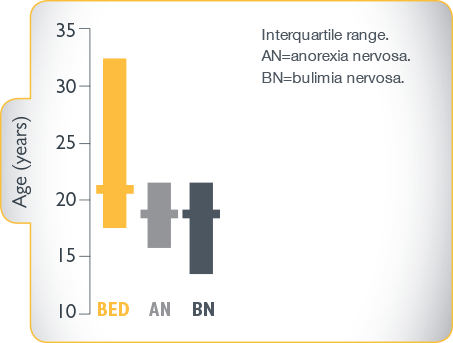
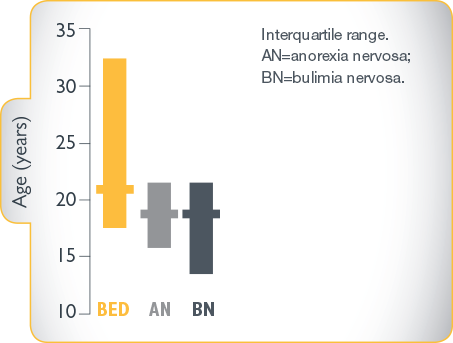
copy/style updates

diff --git a/frontend/dist/index.html b/frontend/dist/index.html
@@ -246,7 +246,7 @@
               </li>
             </ol>
             <p class="disclaimer"><em>Diagnosis should be based upon a <br class="hide--desktop">complete evaluation of the patient.
-                </em></p><a data-slideout="signup" class="button signup">Register to receive the full DSM-5<sup>&reg;</sup> diagnostic criteria and additional BED information from Shire.
+                </em></p><a data-slideout="signup" class="button signup">Register to receive the full <em>DSM-5</em><sup>&reg;</sup> diagnostic criteria and additional BED information from Shire
               
               </a>
             <div class="tab-container">
@@ -309,7 +309,7 @@
                 </h3>
                 <p class="chart hide--desktop"><img src="img/median-ages.png"></p>
                 <div class="median-ages hide--mobile"></div>
-                <p class="text footnote hide--desktop"><span class="yellow">Interquartile range.</span><br>
+                <p class="text footnote hide--desktop">Interquartile range.<br>
                   AN=anorexia nervosa;<br>
                   BN=bulimia nervosa.
                   
@@ -349,7 +349,7 @@
                 
               </p>
             </div>
-            <p class="footnote center chart-footnote">Data from an eating disorder–assessed subsample (n=2,980) of the National Comorbidity Survey Replication, a nationally representative face-to-face household survey of English-speaking adults <br class="hide--desktop"> aged ≥18 years.<sup>2</sup></p>
+            <p class="footnote center chart-footnote">*Data from an eating disorder–assessed subsample (n=2,980) of the National Comorbidity Survey Replication, a nationally representative face-to-face household survey of English-speaking adults <br class="hide--desktop"> aged ≥18 years.<sup>2</sup></p>
           </div>
         </div>
         <div data-section="effects" class="section section--effects"><a id="effects" name="effects" class="scroll-point"></a>

diff --git a/frontend/dist/css/styles.css b/frontend/dist/css/styles.css
@@ -345,8 +345,9 @@ ol.number > li:before {
 a {
   text-decoration: none;
 }
-a:hover {
-  text-decoration: underline;
+
+.content-wrap a:hover {
+  color: #ffcd6d;
 }
 
 @media only screen and (min-width: 40.063em) {
@@ -1331,6 +1332,9 @@ a.pdf-link span sup {
   -webkit-box-shadow: 1px 2px 2px rgba(33, 30, 31, 0.25);
   box-shadow: 1px 2px 2px rgba(33, 30, 31, 0.25);
 }
+.page-nav .slideout__inner .primary-nav .primary-nav__item a.active {
+  background-color: #ffcd6d;
+}
 
 .page-footer nav {
   float: left;
@@ -1993,6 +1997,16 @@ a.pdf-link span sup {
     width: 175px;
   }
 }
+.section--course .mean-duration {
+  /*
+  background-image: url("../img/prevalence-text-bg.png");
+  width: 740px;
+  height: 73px;
+  margin: 0 auto 0 auto;
+  padding: 16px 25px;
+  color: #51748b;
+  */
+}
 @media only screen and (max-width: 40em) {
   .section--course .mean-duration {
     padding-bottom: 40px;
@@ -2204,9 +2218,6 @@ a.pdf-link span sup {
   }
 }
 @media only screen and (min-width: 40.063em) {
-  .section--effects .associated {
-    padding-left: 45px;
-  }
   .section--effects .associated h3 {
     padding-bottom: 24px;
   }
@@ -2334,10 +2345,13 @@ a.pdf-link span sup {
   }
 }
 .section--effects .nineteen {
+  /*.large {
+      letter-spacing: -10px;
+      sup {
+          letter-spacing: normal;
+      }
+  }*/
   background-image: url("../img/spiral.png");
-}
-.section--effects .nineteen .large {
-  letter-spacing: -10px;
 }
 @media only screen and (max-width: 40em) {
   .section--effects .nineteen p {
@@ -2701,9 +2715,6 @@ a.pdf-link span sup {
   background: url("../img/diagnosis-nineteen.png") top left no-repeat;
   min-height: 250px;
   padding-bottom: 40px;
-}
-.section--diagnosis .nineteen-percent .large {
-  letter-spacing: -10px;
 }
 @media only screen and (min-width: 40.063em) {
   .section--diagnosis .nineteen-percent {

diff --git a/frontend/src/styles/pages/index/_effects.scss b/frontend/src/styles/pages/index/_effects.scss
@@ -72,7 +72,7 @@
         }
 
         @include mq("desktop") {
-            padding-left: 45px;
+            //padding-left: 45px;
             //padding-bottom: 30px;
             //float: left;
             h3 {
@@ -202,9 +202,12 @@
         }
     }
     .nineteen {
-        .large {
+        /*.large {
             letter-spacing: -10px;
-        }
+            sup {
+                letter-spacing: normal;
+            }
+        }*/
         background-image: url("#{$img-path}/spiral.png");
         @include mq("mobile") {
             p {

diff --git a/frontend/src/styles/pages/index/_course.scss b/frontend/src/styles/pages/index/_course.scss
@@ -183,6 +183,15 @@
         }
     }
     .mean-duration {
+        /*
+        background-image: url("../img/prevalence-text-bg.png");
+        width: 740px;
+        height: 73px;
+        margin: 0 auto 0 auto;
+        padding: 16px 25px;
+        color: #51748b;
+        */
+
         @include mq("mobile") {
             padding-bottom: 40px;
         }

diff --git a/frontend/src/styles/components/_page-nav.scss b/frontend/src/styles/components/_page-nav.scss
@@ -57,6 +57,9 @@
                         background: #fec451;
                         box-shadow: 1px 2px 2px rgba(33, 30, 31, 0.25);
                     }
+                    &.active {
+                        background-color: #ffcd6d;
+                    }
                 }
             }
         }

diff --git a/frontend/src/styles/pages/index/_diagnosis.scss b/frontend/src/styles/pages/index/_diagnosis.scss
@@ -174,7 +174,7 @@
         min-height: 250px;
         padding-bottom: 40px;
         .large {
-            letter-spacing: -10px;
+            //letter-spacing: -10px;
         }
         @include mq("desktop") {
             float: left;

diff --git a/frontend/src/styles/base/project/_globals.scss b/frontend/src/styles/base/project/_globals.scss
@@ -267,7 +267,13 @@ ol.number {
 a {
     text-decoration: none;
     &:hover {
-        text-decoration: underline;
+        //text-decoration: underline;
+    }
+}
+
+.content-wrap {
+    a:hover {
+        color: #ffcd6d;
     }
 }
 
